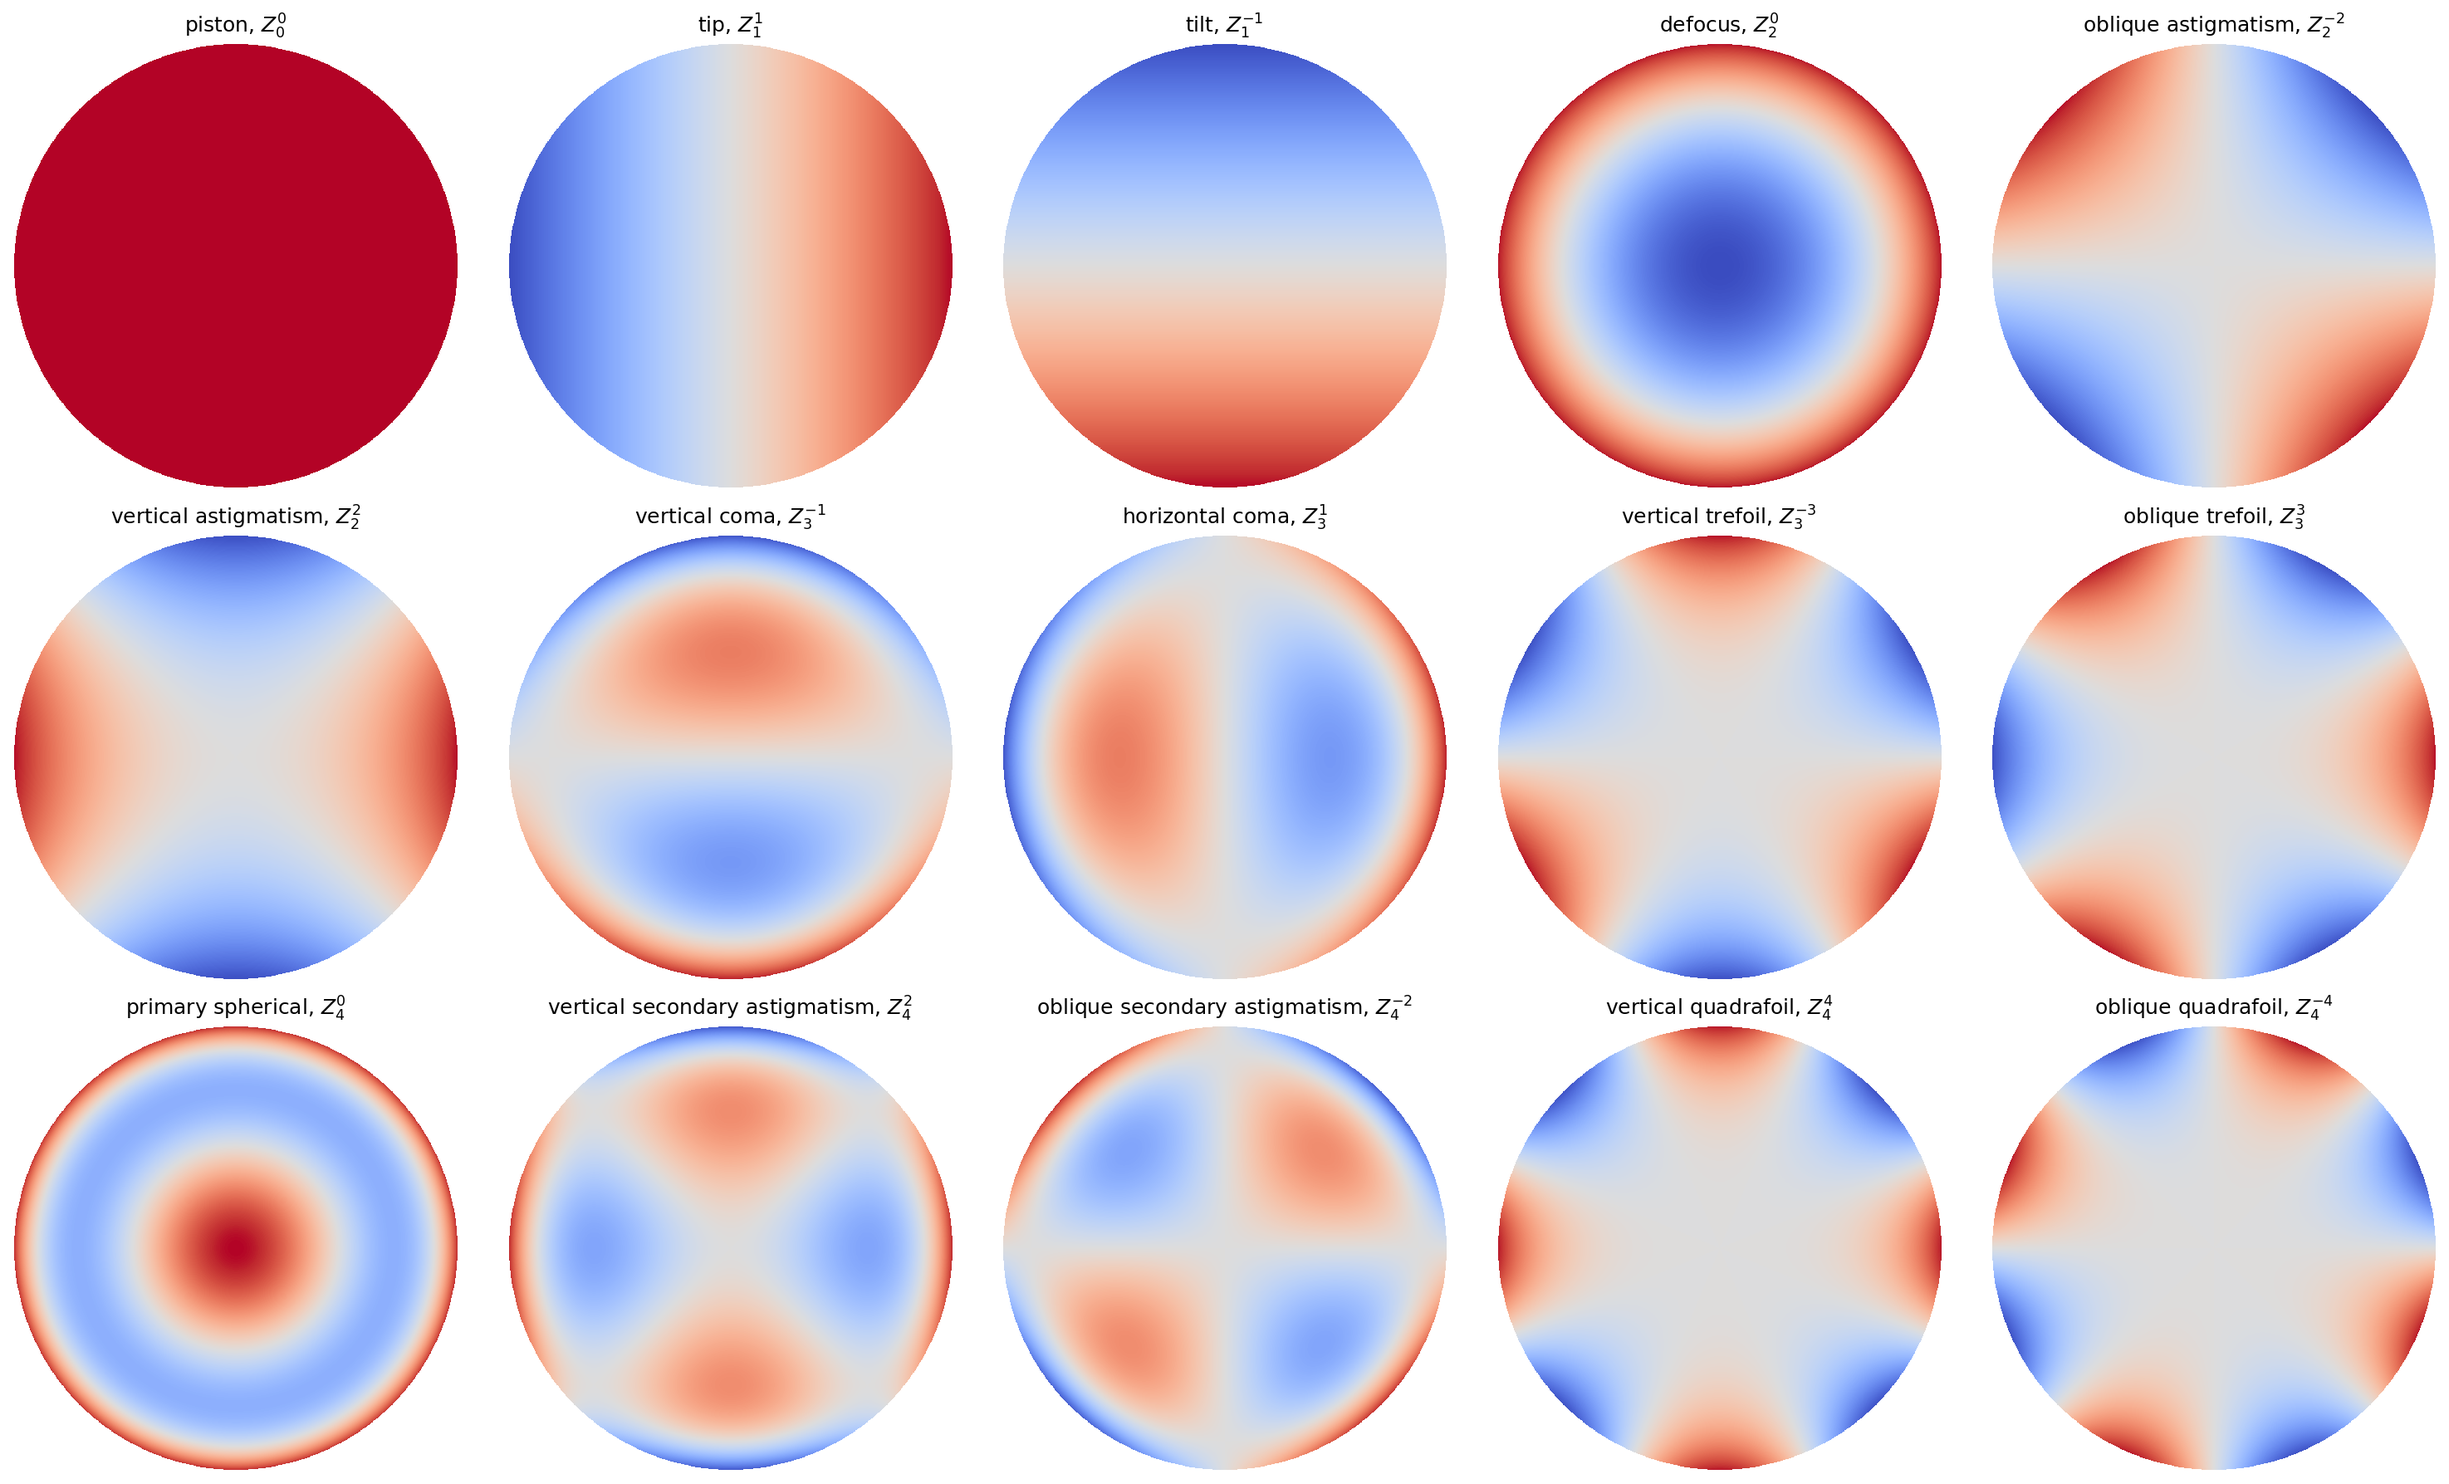
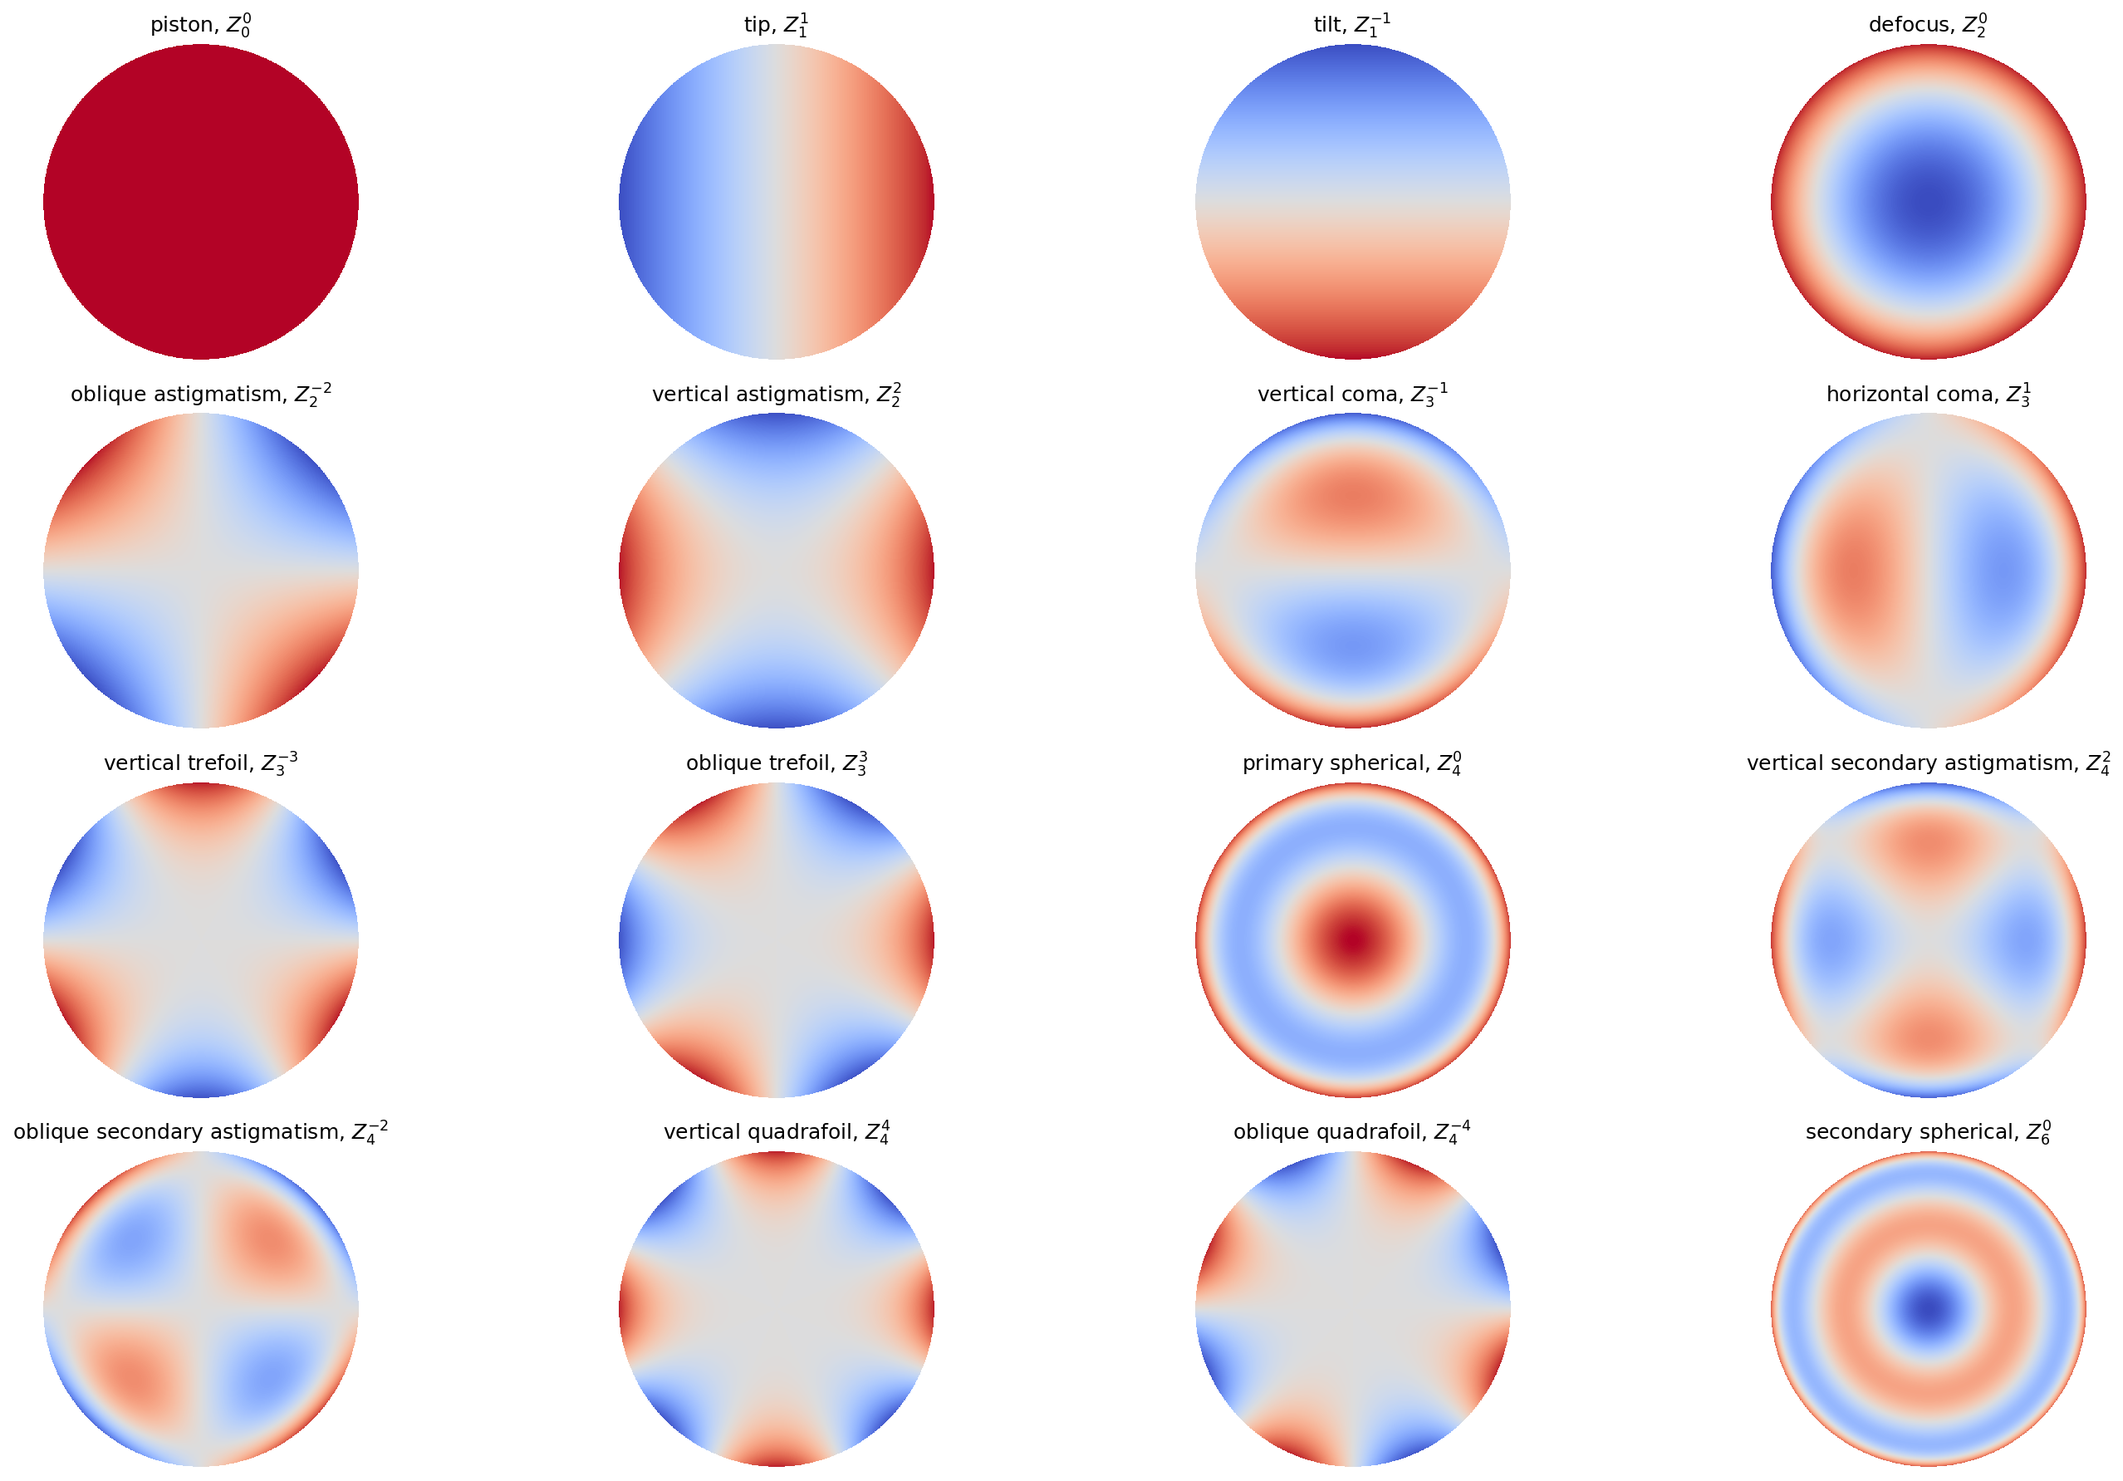
Add secondary spherical to named coefs

diff --git a/pyotf/phaseretrieval.py b/pyotf/phaseretrieval.py
@@ -292,7 +292,7 @@ class ZernikeDecomposition(object):
         # set up the subplot
         fig, ax = plt.subplots(1, 1, sharex=True, figsize=(6, 6))
         # get the ordered names
-        ordered_names = [noll2name[i + 1].title() for i in range(len(noll2name))]
+        ordered_names = [name.title() for index, name in sorted(noll2name.items())]
         # make an x range for the bar plot
         x = np.arange(len(ordered_names)) + 1
         # pull the data
@@ -339,7 +339,7 @@ class ZernikeDecomposition(object):
 
     def plot(self, smag=slice(None), sphase=slice(None), axs=None):
         """Plot the zernike decomposed pupil.
-        
+
         Parameters
         ----------
         smag : slice
@@ -370,8 +370,8 @@ def _plot_complex_pupil(mag, phase, axs=None):
     mag_img = ax_mag.matshow(mag, cmap="inferno", norm=mpl.colors.PowerNorm(0.5))
     plt.colorbar(mag_img, ax=ax_mag)
 
-    ax_phase.set_title("Pupil Phase", pad=0)
-    ax_mag.set_title("Pupil Magnitude", pad=0)
+    ax_phase.set_title("Pupil Phase")
+    ax_mag.set_title("Pupil Magnitude")
 
     for ax in (ax_phase, ax_mag):
         ax.xaxis.set_major_locator(plt.NullLocator())

diff --git a/figures.py b/figures.py
@@ -37,7 +37,7 @@ SAVE = dict(dpi=150, transparent=False, bbox_inches="tight")
 
 def otf_plots(model_kwargs):
     """Make OTF plots.
-    
+
     NOTE: the results are _very_ close on a qualitative scale, but they do not match exactly as
     theory says they should (they're mathematically identical to one another)
     """
@@ -105,7 +105,7 @@ def zernike_plots():
     xx, yy = np.meshgrid(x, x)  # xy indexing is default
     r, theta = cart2pol(yy, xx)
     # set up plot
-    fig, axs = plt.subplots(3, 5, figsize=(20, 12))
+    fig, axs = plt.subplots(4, 4, figsize=(20, 12))
     # fill out plot
     for ax, (k, v) in zip(axs.ravel(), noll2name.items()):
         print(f"Making {v} plot")

diff --git a/pyotf/zernike.py b/pyotf/zernike.py
@@ -164,6 +164,7 @@ noll2name = {
     13: "oblique secondary astigmatism",
     14: "vertical quadrafoil",
     15: "oblique quadrafoil",
+    22: "secondary spherical",
 }
 
 name2noll = {v: k for k, v in noll2name.items()}
